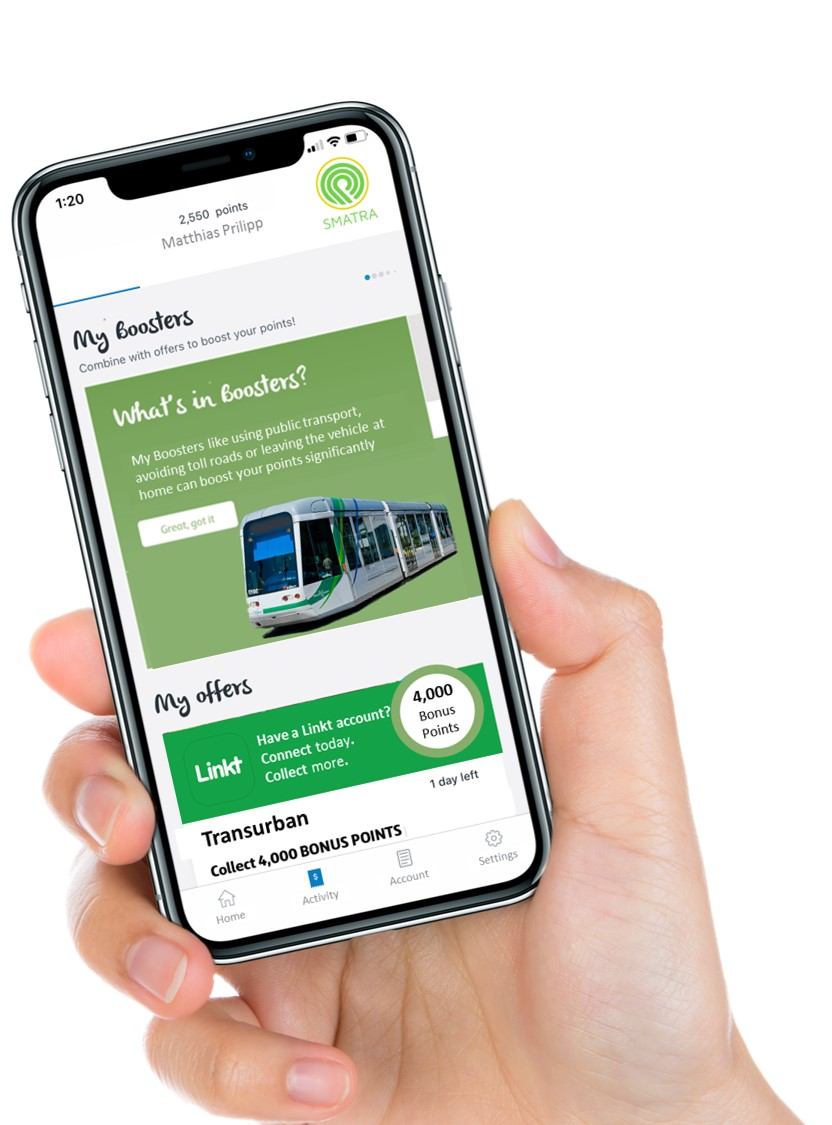
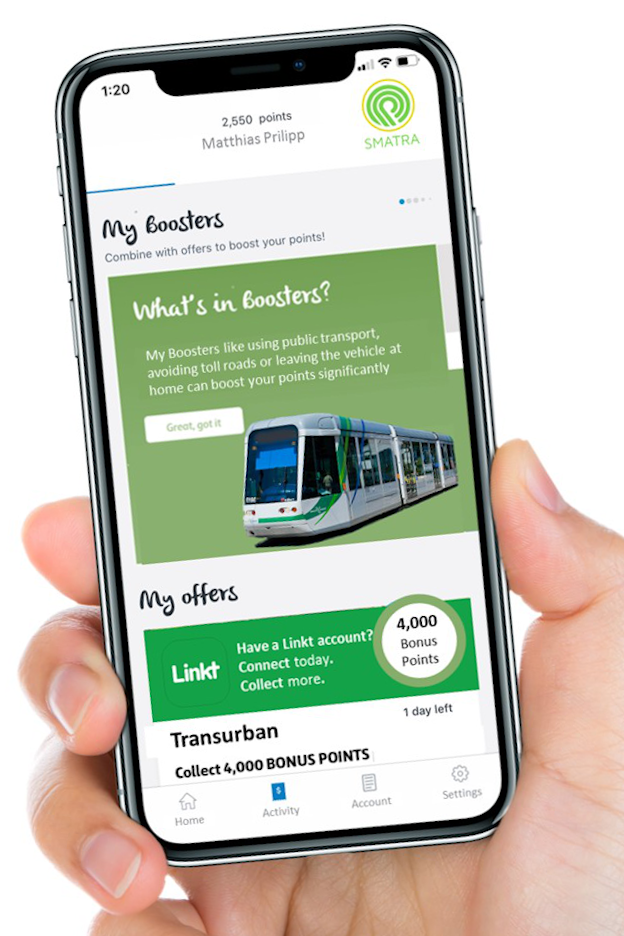
Resizing mock

diff --git a/assets/css/main.css b/assets/css/main.css
@@ -2128,7 +2128,7 @@ input[type="radio"]+label:before {
 }
 
 .image.leftlarge {
-	max-width: 40%;
+	max-width: 50%;
 }
 
 .image.left img,
